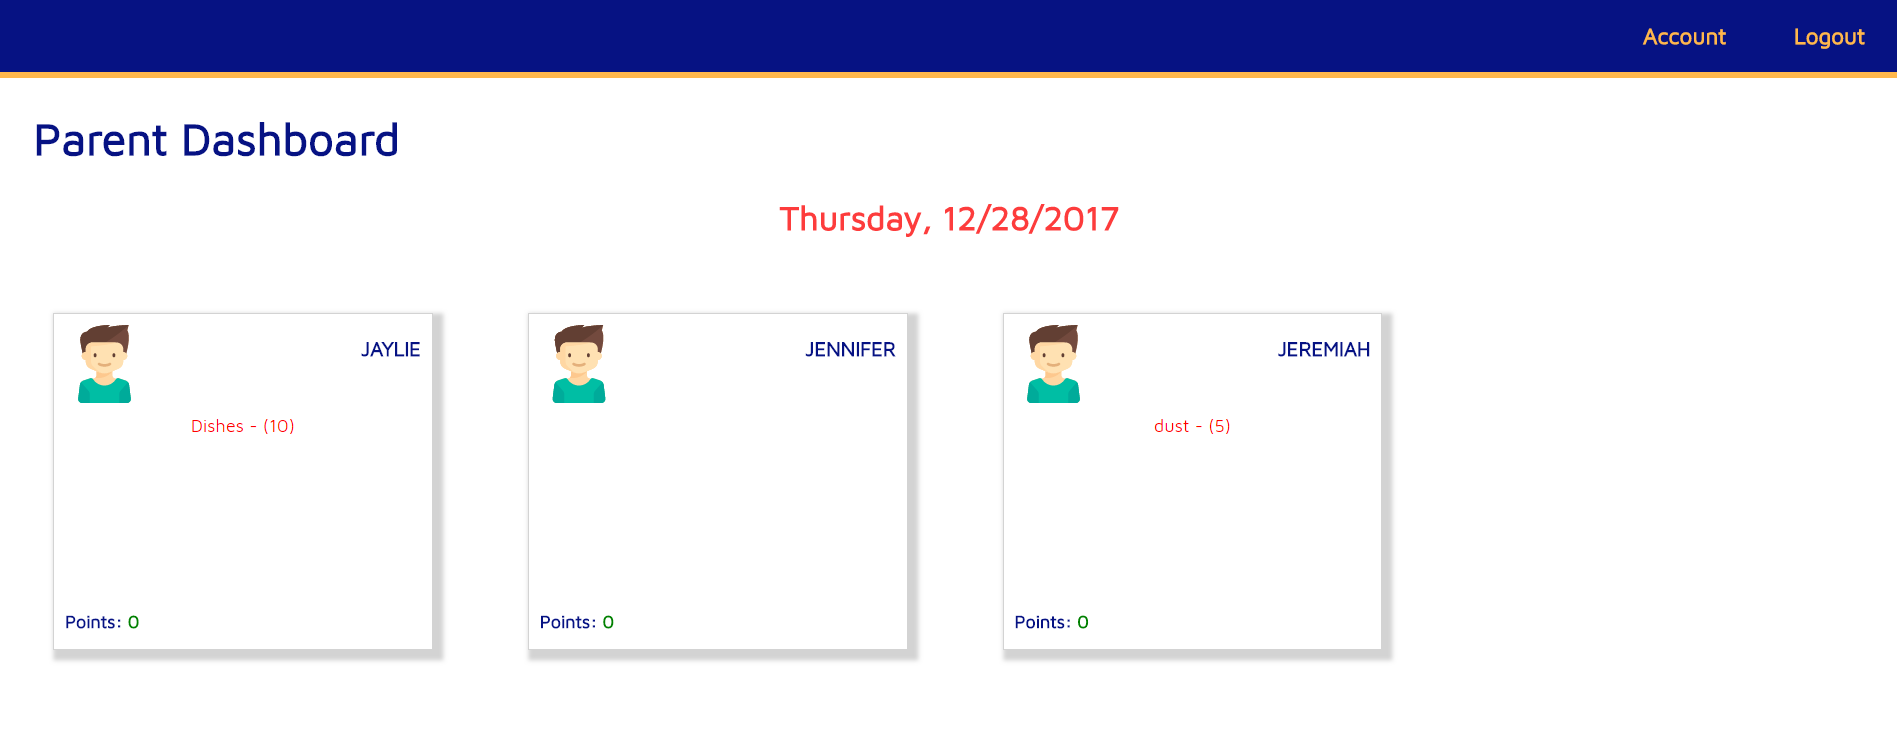
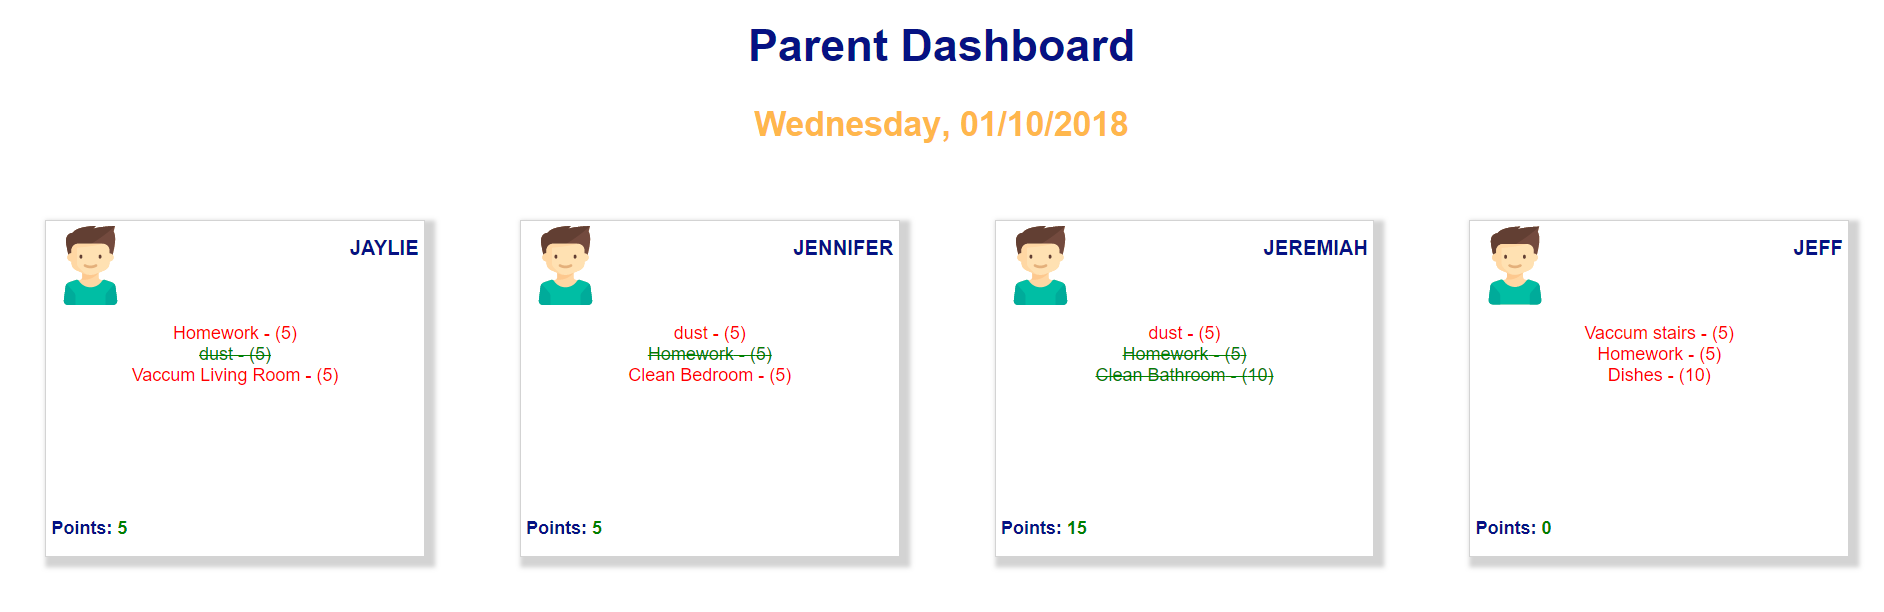
styling

diff --git a/main.css b/main.css
@@ -88,8 +88,9 @@ main {
 }
 
 /*Project List*/
+
 section{
-	margin: 40px auto;
+	margin: 200px auto 30px auto;
 	width: 80%;
 }
 
@@ -97,10 +98,11 @@ section img{
 	width: 100%;
 }
 
-.project {
+section .project {
 	text-align: center;
 	border-bottom: 1px solid #FFCE00;
 	padding: 20px;
+	margin: 50px auto;
 }
 
 .project p{
